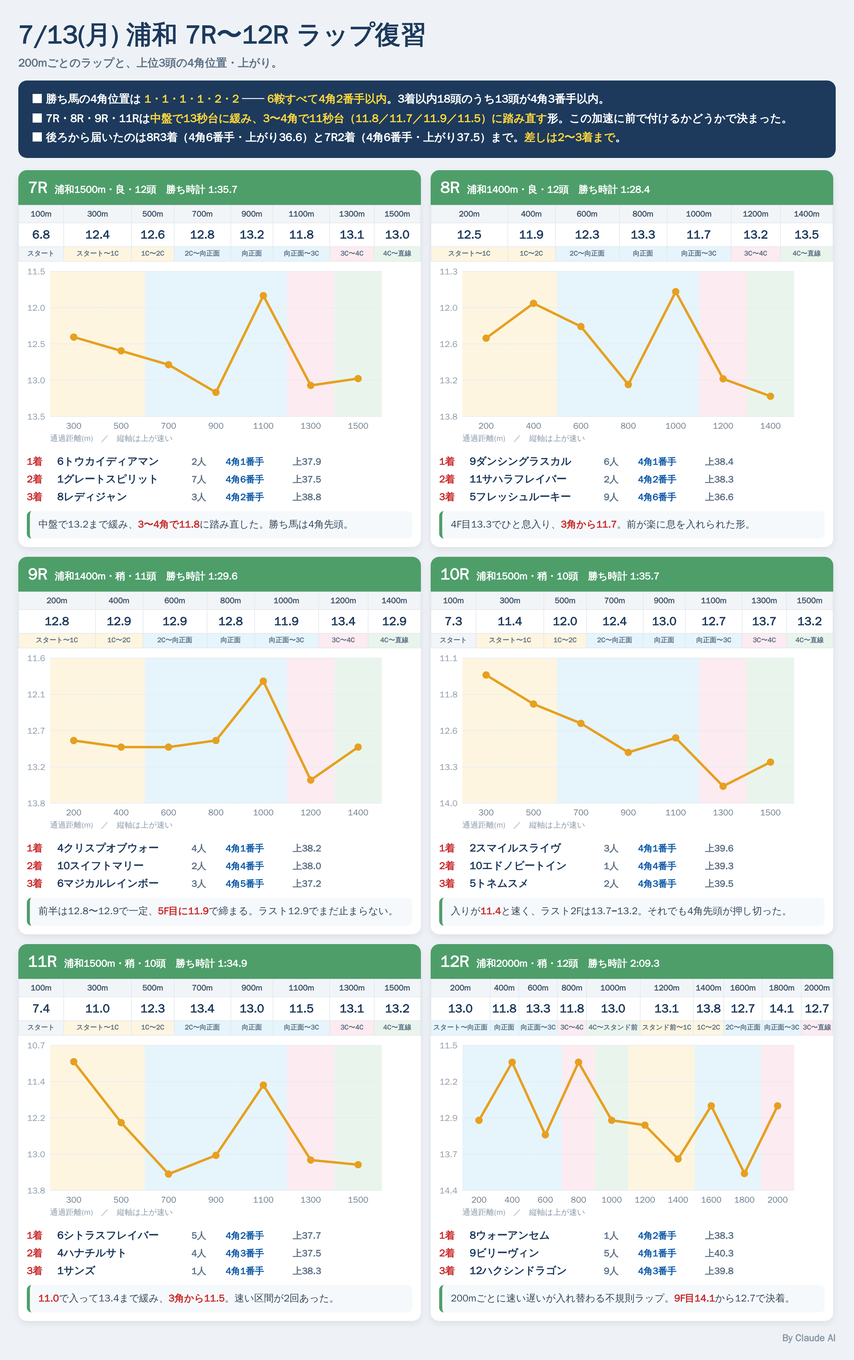
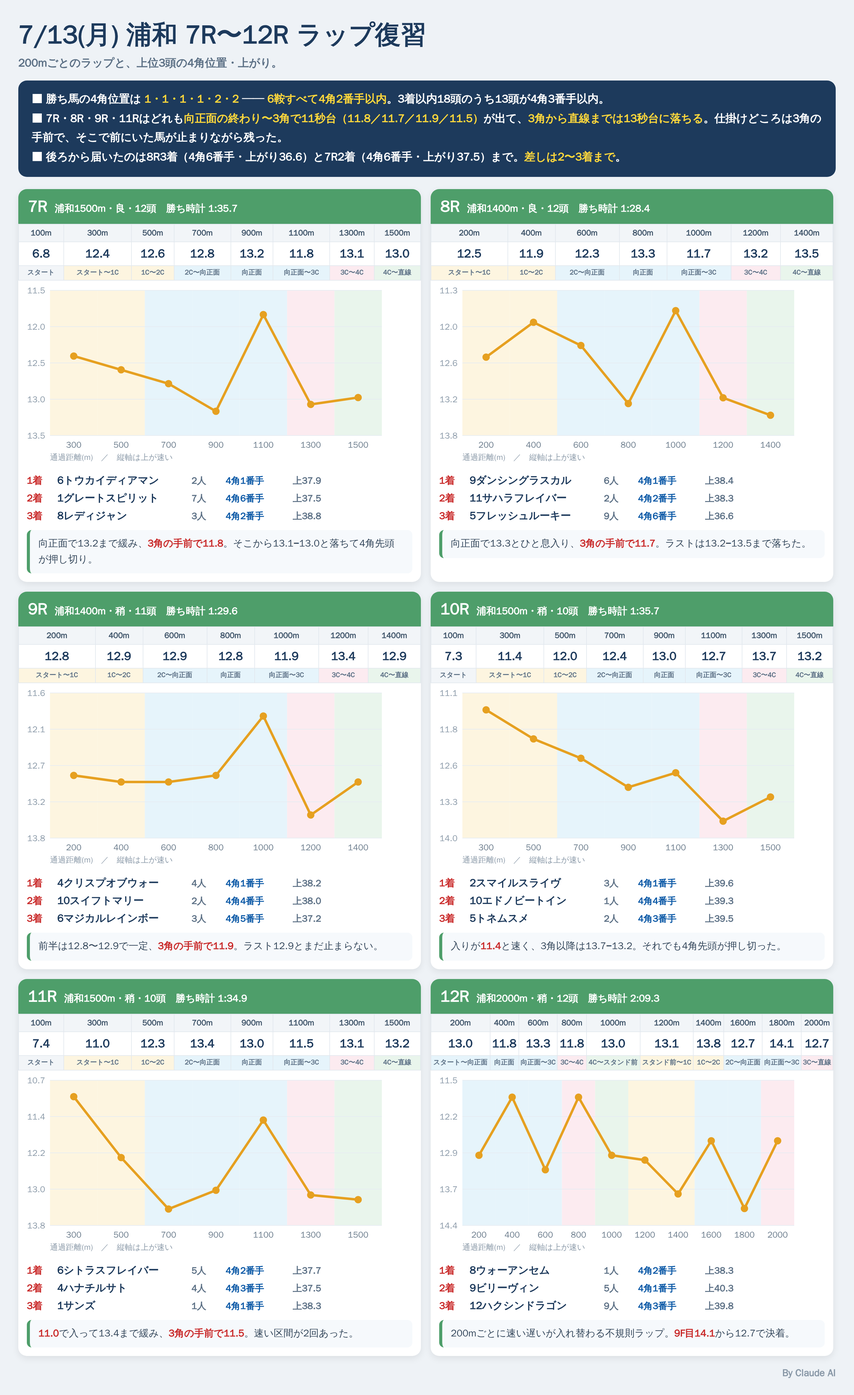
notes: zoomed 7R lap panel; fix the acceleration point to before the 3rd corner
Claude-Session: https://claude.ai/code/session_01RoHscZkr96FNaxQWvUqgEw

diff --git a/notes/live/2026-08-05/urawa_0713_lap.html b/notes/live/2026-08-05/urawa_0713_lap.html
@@ -36,7 +36,7 @@
   <div class="sub2">200mごとのラップと、上位3頭の4角位置・上がり。</div>
   <div class="sum">
     ■ 勝ち馬の4角位置は <b>1・1・1・1・2・2</b> ── <b>6鞍すべて4角2番手以内</b>。3着以内18頭のうち13頭が4角3番手以内。<br>
-    ■ 7R・8R・9R・11Rは<b>中盤で13秒台に緩み、3〜4角で11秒台（11.8／11.7／11.9／11.5）に踏み直す</b>形。この加速に前で付けるかどうかで決まった。<br>
+    ■ 7R・8R・9R・11Rはどれも<b>向正面の終わり〜3角で11秒台（11.8／11.7／11.9／11.5）</b>が出て、<b>3角から直線までは13秒台に落ちる</b>。仕掛けどころは3角の手前で、そこで前にいた馬が止まりながら残った。<br>
     ■ 後ろから届いたのは8R3着（4角6番手・上がり36.6）と7R2着（4角6番手・上がり37.5）まで。<b>差しは2〜3着まで</b>。
   </div>
   <div class="grid">
@@ -45,35 +45,35 @@
     <table class="lt"><tr><th>100m</th><th>300m</th><th>500m</th><th>700m</th><th>900m</th><th>1100m</th><th>1300m</th><th>1500m</th></tr><tr class="v"><td>6.8</td><td>12.4</td><td>12.6</td><td>12.8</td><td>13.2</td><td>11.8</td><td>13.1</td><td>13.0</td></tr><tr><td class="sg" style="background:#f2f5f8">スタート</td><td class="sg" style="background:#fdf5e0">スタート〜1C</td><td class="sg" style="background:#fdf5e0">1C〜2C</td><td class="sg" style="background:#e6f4fb">2C〜向正面</td><td class="sg" style="background:#e6f4fb">向正面</td><td class="sg" style="background:#e6f4fb">向正面〜3C</td><td class="sg" style="background:#fcebf0">3C〜4C</td><td class="sg" style="background:#e9f5ec">4C〜直線</td></tr></table>
     <svg viewBox="0 0 612 300" width="612" height="300"><rect x="52.0" y="16" width="77.7" height="238" fill="#fdf5e0"/><rect x="129.7" y="16" width="77.7" height="238" fill="#fdf5e0"/><rect x="207.4" y="16" width="77.7" height="238" fill="#e6f4fb"/><rect x="285.1" y="16" width="77.7" height="238" fill="#e6f4fb"/><rect x="362.9" y="16" width="77.7" height="238" fill="#e6f4fb"/><rect x="440.6" y="16" width="77.7" height="238" fill="#fcebf0"/><rect x="518.3" y="16" width="77.7" height="238" fill="#e9f5ec"/><line x1="52" y1="16.0" x2="596" y2="16.0" stroke="#e6ecf2"/><text x="44" y="21.0" text-anchor="end" font-size="14" fill="#8a99a8">11.5</text><line x1="52" y1="75.5" x2="596" y2="75.5" stroke="#e6ecf2"/><text x="44" y="80.5" text-anchor="end" font-size="14" fill="#8a99a8">12.0</text><line x1="52" y1="135.0" x2="596" y2="135.0" stroke="#e6ecf2"/><text x="44" y="140.0" text-anchor="end" font-size="14" fill="#8a99a8">12.5</text><line x1="52" y1="194.5" x2="596" y2="194.5" stroke="#e6ecf2"/><text x="44" y="199.5" text-anchor="end" font-size="14" fill="#8a99a8">13.0</text><line x1="52" y1="254.0" x2="596" y2="254.0" stroke="#e6ecf2"/><text x="44" y="259.0" text-anchor="end" font-size="14" fill="#8a99a8">13.5</text><polyline points="90.9,123.7 168.6,146.3 246.3,169.0 324.0,214.3 401.7,55.7 479.4,203.0 557.1,191.7" fill="none" stroke="#e6a020" stroke-width="4" stroke-linejoin="round"/><circle cx="90.9" cy="123.7" r="6" fill="#e6a020"/><text x="90.9" y="274" text-anchor="middle" font-size="14" fill="#6b7c8c">300</text><circle cx="168.6" cy="146.3" r="6" fill="#e6a020"/><text x="168.6" y="274" text-anchor="middle" font-size="14" fill="#6b7c8c">500</text><circle cx="246.3" cy="169.0" r="6" fill="#e6a020"/><text x="246.3" y="274" text-anchor="middle" font-size="14" fill="#6b7c8c">700</text><circle cx="324.0" cy="214.3" r="6" fill="#e6a020"/><text x="324.0" y="274" text-anchor="middle" font-size="14" fill="#6b7c8c">900</text><circle cx="401.7" cy="55.7" r="6" fill="#e6a020"/><text x="401.7" y="274" text-anchor="middle" font-size="14" fill="#6b7c8c">1100</text><circle cx="479.4" cy="203.0" r="6" fill="#e6a020"/><text x="479.4" y="274" text-anchor="middle" font-size="14" fill="#6b7c8c">1300</text><circle cx="557.1" cy="191.7" r="6" fill="#e6a020"/><text x="557.1" y="274" text-anchor="middle" font-size="14" fill="#6b7c8c">1500</text><text x="52" y="294" font-size="13" fill="#8a99a8">通過距離(m)　／　縦軸は上が速い</text></svg>
     <div class="tops"><div class="tp"><span class="f">1着</span><span class="hn">6トウカイディアマン</span><span class="pp">2人</span><span class="cn">4角1番手</span><span class="ag">上37.9</span></div><div class="tp"><span class="f">2着</span><span class="hn">1グレートスピリット</span><span class="pp">7人</span><span class="cn">4角6番手</span><span class="ag">上37.5</span></div><div class="tp"><span class="f">3着</span><span class="hn">8レディジャン</span><span class="pp">3人</span><span class="cn">4角2番手</span><span class="ag">上38.8</span></div></div>
-    <div class="read">中盤で13.2まで緩み、<b>3〜4角で11.8</b>に踏み直した。勝ち馬は4角先頭。</div>
+    <div class="read">向正面で13.2まで緩み、<b>3角の手前で11.8</b>。そこから13.1−13.0と落ちて4角先頭が押し切り。</div>
   </div>
   <div class="blk">
     <div class="bh"><b>8R</b><span>浦和1400m・良・12頭　勝ち時計 1:28.4</span></div>
     <table class="lt"><tr><th>200m</th><th>400m</th><th>600m</th><th>800m</th><th>1000m</th><th>1200m</th><th>1400m</th></tr><tr class="v"><td>12.5</td><td>11.9</td><td>12.3</td><td>13.3</td><td>11.7</td><td>13.2</td><td>13.5</td></tr><tr><td class="sg" style="background:#fdf5e0">スタート〜1C</td><td class="sg" style="background:#fdf5e0">1C〜2C</td><td class="sg" style="background:#e6f4fb">2C〜向正面</td><td class="sg" style="background:#e6f4fb">向正面</td><td class="sg" style="background:#e6f4fb">向正面〜3C</td><td class="sg" style="background:#fcebf0">3C〜4C</td><td class="sg" style="background:#e9f5ec">4C〜直線</td></tr></table>
     <svg viewBox="0 0 612 300" width="612" height="300"><rect x="52.0" y="16" width="77.7" height="238" fill="#fdf5e0"/><rect x="129.7" y="16" width="77.7" height="238" fill="#fdf5e0"/><rect x="207.4" y="16" width="77.7" height="238" fill="#e6f4fb"/><rect x="285.1" y="16" width="77.7" height="238" fill="#e6f4fb"/><rect x="362.9" y="16" width="77.7" height="238" fill="#e6f4fb"/><rect x="440.6" y="16" width="77.7" height="238" fill="#fcebf0"/><rect x="518.3" y="16" width="77.7" height="238" fill="#e9f5ec"/><line x1="52" y1="16.0" x2="596" y2="16.0" stroke="#e6ecf2"/><text x="44" y="21.0" text-anchor="end" font-size="14" fill="#8a99a8">11.3</text><line x1="52" y1="75.5" x2="596" y2="75.5" stroke="#e6ecf2"/><text x="44" y="80.5" text-anchor="end" font-size="14" fill="#8a99a8">12.0</text><line x1="52" y1="135.0" x2="596" y2="135.0" stroke="#e6ecf2"/><text x="44" y="140.0" text-anchor="end" font-size="14" fill="#8a99a8">12.6</text><line x1="52" y1="194.5" x2="596" y2="194.5" stroke="#e6ecf2"/><text x="44" y="199.5" text-anchor="end" font-size="14" fill="#8a99a8">13.2</text><line x1="52" y1="254.0" x2="596" y2="254.0" stroke="#e6ecf2"/><text x="44" y="259.0" text-anchor="end" font-size="14" fill="#8a99a8">13.8</text><polyline points="90.9,125.5 168.6,68.4 246.3,106.4 324.0,201.6 401.7,49.3 479.4,192.1 557.1,220.7" fill="none" stroke="#e6a020" stroke-width="4" stroke-linejoin="round"/><circle cx="90.9" cy="125.5" r="6" fill="#e6a020"/><text x="90.9" y="274" text-anchor="middle" font-size="14" fill="#6b7c8c">200</text><circle cx="168.6" cy="68.4" r="6" fill="#e6a020"/><text x="168.6" y="274" text-anchor="middle" font-size="14" fill="#6b7c8c">400</text><circle cx="246.3" cy="106.4" r="6" fill="#e6a020"/><text x="246.3" y="274" text-anchor="middle" font-size="14" fill="#6b7c8c">600</text><circle cx="324.0" cy="201.6" r="6" fill="#e6a020"/><text x="324.0" y="274" text-anchor="middle" font-size="14" fill="#6b7c8c">800</text><circle cx="401.7" cy="49.3" r="6" fill="#e6a020"/><text x="401.7" y="274" text-anchor="middle" font-size="14" fill="#6b7c8c">1000</text><circle cx="479.4" cy="192.1" r="6" fill="#e6a020"/><text x="479.4" y="274" text-anchor="middle" font-size="14" fill="#6b7c8c">1200</text><circle cx="557.1" cy="220.7" r="6" fill="#e6a020"/><text x="557.1" y="274" text-anchor="middle" font-size="14" fill="#6b7c8c">1400</text><text x="52" y="294" font-size="13" fill="#8a99a8">通過距離(m)　／　縦軸は上が速い</text></svg>
     <div class="tops"><div class="tp"><span class="f">1着</span><span class="hn">9ダンシングラスカル</span><span class="pp">6人</span><span class="cn">4角1番手</span><span class="ag">上38.4</span></div><div class="tp"><span class="f">2着</span><span class="hn">11サハラフレイバー</span><span class="pp">2人</span><span class="cn">4角2番手</span><span class="ag">上38.3</span></div><div class="tp"><span class="f">3着</span><span class="hn">5フレッシュルーキー</span><span class="pp">9人</span><span class="cn">4角6番手</span><span class="ag">上36.6</span></div></div>
-    <div class="read">4F目13.3でひと息入り、<b>3角から11.7</b>。前が楽に息を入れられた形。</div>
+    <div class="read">向正面で13.3とひと息入り、<b>3角の手前で11.7</b>。ラストは13.2−13.5まで落ちた。</div>
   </div>
   <div class="blk">
     <div class="bh"><b>9R</b><span>浦和1400m・稍・11頭　勝ち時計 1:29.6</span></div>
     <table class="lt"><tr><th>200m</th><th>400m</th><th>600m</th><th>800m</th><th>1000m</th><th>1200m</th><th>1400m</th></tr><tr class="v"><td>12.8</td><td>12.9</td><td>12.9</td><td>12.8</td><td>11.9</td><td>13.4</td><td>12.9</td></tr><tr><td class="sg" style="background:#fdf5e0">スタート〜1C</td><td class="sg" style="background:#fdf5e0">1C〜2C</td><td class="sg" style="background:#e6f4fb">2C〜向正面</td><td class="sg" style="background:#e6f4fb">向正面</td><td class="sg" style="background:#e6f4fb">向正面〜3C</td><td class="sg" style="background:#fcebf0">3C〜4C</td><td class="sg" style="background:#e9f5ec">4C〜直線</td></tr></table>
     <svg viewBox="0 0 612 300" width="612" height="300"><rect x="52.0" y="16" width="77.7" height="238" fill="#fdf5e0"/><rect x="129.7" y="16" width="77.7" height="238" fill="#fdf5e0"/><rect x="207.4" y="16" width="77.7" height="238" fill="#e6f4fb"/><rect x="285.1" y="16" width="77.7" height="238" fill="#e6f4fb"/><rect x="362.9" y="16" width="77.7" height="238" fill="#e6f4fb"/><rect x="440.6" y="16" width="77.7" height="238" fill="#fcebf0"/><rect x="518.3" y="16" width="77.7" height="238" fill="#e9f5ec"/><line x1="52" y1="16.0" x2="596" y2="16.0" stroke="#e6ecf2"/><text x="44" y="21.0" text-anchor="end" font-size="14" fill="#8a99a8">11.6</text><line x1="52" y1="75.5" x2="596" y2="75.5" stroke="#e6ecf2"/><text x="44" y="80.5" text-anchor="end" font-size="14" fill="#8a99a8">12.1</text><line x1="52" y1="135.0" x2="596" y2="135.0" stroke="#e6ecf2"/><text x="44" y="140.0" text-anchor="end" font-size="14" fill="#8a99a8">12.7</text><line x1="52" y1="194.5" x2="596" y2="194.5" stroke="#e6ecf2"/><text x="44" y="199.5" text-anchor="end" font-size="14" fill="#8a99a8">13.2</text><line x1="52" y1="254.0" x2="596" y2="254.0" stroke="#e6ecf2"/><text x="44" y="259.0" text-anchor="end" font-size="14" fill="#8a99a8">13.8</text><polyline points="90.9,151.2 168.6,162.0 246.3,162.0 324.0,151.2 401.7,53.9 479.4,216.1 557.1,162.0" fill="none" stroke="#e6a020" stroke-width="4" stroke-linejoin="round"/><circle cx="90.9" cy="151.2" r="6" fill="#e6a020"/><text x="90.9" y="274" text-anchor="middle" font-size="14" fill="#6b7c8c">200</text><circle cx="168.6" cy="162.0" r="6" fill="#e6a020"/><text x="168.6" y="274" text-anchor="middle" font-size="14" fill="#6b7c8c">400</text><circle cx="246.3" cy="162.0" r="6" fill="#e6a020"/><text x="246.3" y="274" text-anchor="middle" font-size="14" fill="#6b7c8c">600</text><circle cx="324.0" cy="151.2" r="6" fill="#e6a020"/><text x="324.0" y="274" text-anchor="middle" font-size="14" fill="#6b7c8c">800</text><circle cx="401.7" cy="53.9" r="6" fill="#e6a020"/><text x="401.7" y="274" text-anchor="middle" font-size="14" fill="#6b7c8c">1000</text><circle cx="479.4" cy="216.1" r="6" fill="#e6a020"/><text x="479.4" y="274" text-anchor="middle" font-size="14" fill="#6b7c8c">1200</text><circle cx="557.1" cy="162.0" r="6" fill="#e6a020"/><text x="557.1" y="274" text-anchor="middle" font-size="14" fill="#6b7c8c">1400</text><text x="52" y="294" font-size="13" fill="#8a99a8">通過距離(m)　／　縦軸は上が速い</text></svg>
     <div class="tops"><div class="tp"><span class="f">1着</span><span class="hn">4クリスプオブウォー</span><span class="pp">4人</span><span class="cn">4角1番手</span><span class="ag">上38.2</span></div><div class="tp"><span class="f">2着</span><span class="hn">10スイフトマリー</span><span class="pp">2人</span><span class="cn">4角4番手</span><span class="ag">上38.0</span></div><div class="tp"><span class="f">3着</span><span class="hn">6マジカルレインボー</span><span class="pp">3人</span><span class="cn">4角5番手</span><span class="ag">上37.2</span></div></div>
-    <div class="read">前半は12.8〜12.9で一定、<b>5F目に11.9</b>で締まる。ラスト12.9でまだ止まらない。</div>
+    <div class="read">前半は12.8〜12.9で一定、<b>3角の手前で11.9</b>。ラスト12.9とまだ止まらない。</div>
   </div>
   <div class="blk">
     <div class="bh"><b>10R</b><span>浦和1500m・稍・10頭　勝ち時計 1:35.7</span></div>
     <table class="lt"><tr><th>100m</th><th>300m</th><th>500m</th><th>700m</th><th>900m</th><th>1100m</th><th>1300m</th><th>1500m</th></tr><tr class="v"><td>7.3</td><td>11.4</td><td>12.0</td><td>12.4</td><td>13.0</td><td>12.7</td><td>13.7</td><td>13.2</td></tr><tr><td class="sg" style="background:#f2f5f8">スタート</td><td class="sg" style="background:#fdf5e0">スタート〜1C</td><td class="sg" style="background:#fdf5e0">1C〜2C</td><td class="sg" style="background:#e6f4fb">2C〜向正面</td><td class="sg" style="background:#e6f4fb">向正面</td><td class="sg" style="background:#e6f4fb">向正面〜3C</td><td class="sg" style="background:#fcebf0">3C〜4C</td><td class="sg" style="background:#e9f5ec">4C〜直線</td></tr></table>
     <svg viewBox="0 0 612 300" width="612" height="300"><rect x="52.0" y="16" width="77.7" height="238" fill="#fdf5e0"/><rect x="129.7" y="16" width="77.7" height="238" fill="#fdf5e0"/><rect x="207.4" y="16" width="77.7" height="238" fill="#e6f4fb"/><rect x="285.1" y="16" width="77.7" height="238" fill="#e6f4fb"/><rect x="362.9" y="16" width="77.7" height="238" fill="#e6f4fb"/><rect x="440.6" y="16" width="77.7" height="238" fill="#fcebf0"/><rect x="518.3" y="16" width="77.7" height="238" fill="#e9f5ec"/><line x1="52" y1="16.0" x2="596" y2="16.0" stroke="#e6ecf2"/><text x="44" y="21.0" text-anchor="end" font-size="14" fill="#8a99a8">11.1</text><line x1="52" y1="75.5" x2="596" y2="75.5" stroke="#e6ecf2"/><text x="44" y="80.5" text-anchor="end" font-size="14" fill="#8a99a8">11.8</text><line x1="52" y1="135.0" x2="596" y2="135.0" stroke="#e6ecf2"/><text x="44" y="140.0" text-anchor="end" font-size="14" fill="#8a99a8">12.6</text><line x1="52" y1="194.5" x2="596" y2="194.5" stroke="#e6ecf2"/><text x="44" y="199.5" text-anchor="end" font-size="14" fill="#8a99a8">13.3</text><line x1="52" y1="254.0" x2="596" y2="254.0" stroke="#e6ecf2"/><text x="44" y="259.0" text-anchor="end" font-size="14" fill="#8a99a8">14.0</text><polyline points="90.9,43.8 168.6,91.4 246.3,123.1 324.0,170.7 401.7,146.9 479.4,226.2 557.1,186.6" fill="none" stroke="#e6a020" stroke-width="4" stroke-linejoin="round"/><circle cx="90.9" cy="43.8" r="6" fill="#e6a020"/><text x="90.9" y="274" text-anchor="middle" font-size="14" fill="#6b7c8c">300</text><circle cx="168.6" cy="91.4" r="6" fill="#e6a020"/><text x="168.6" y="274" text-anchor="middle" font-size="14" fill="#6b7c8c">500</text><circle cx="246.3" cy="123.1" r="6" fill="#e6a020"/><text x="246.3" y="274" text-anchor="middle" font-size="14" fill="#6b7c8c">700</text><circle cx="324.0" cy="170.7" r="6" fill="#e6a020"/><text x="324.0" y="274" text-anchor="middle" font-size="14" fill="#6b7c8c">900</text><circle cx="401.7" cy="146.9" r="6" fill="#e6a020"/><text x="401.7" y="274" text-anchor="middle" font-size="14" fill="#6b7c8c">1100</text><circle cx="479.4" cy="226.2" r="6" fill="#e6a020"/><text x="479.4" y="274" text-anchor="middle" font-size="14" fill="#6b7c8c">1300</text><circle cx="557.1" cy="186.6" r="6" fill="#e6a020"/><text x="557.1" y="274" text-anchor="middle" font-size="14" fill="#6b7c8c">1500</text><text x="52" y="294" font-size="13" fill="#8a99a8">通過距離(m)　／　縦軸は上が速い</text></svg>
     <div class="tops"><div class="tp"><span class="f">1着</span><span class="hn">2スマイルスライヴ</span><span class="pp">3人</span><span class="cn">4角1番手</span><span class="ag">上39.6</span></div><div class="tp"><span class="f">2着</span><span class="hn">10エドノビートイン</span><span class="pp">1人</span><span class="cn">4角4番手</span><span class="ag">上39.3</span></div><div class="tp"><span class="f">3着</span><span class="hn">5トネムスメ</span><span class="pp">2人</span><span class="cn">4角3番手</span><span class="ag">上39.5</span></div></div>
-    <div class="read">入りが<b>11.4</b>と速く、ラスト2Fは13.7−13.2。それでも4角先頭が押し切った。</div>
+    <div class="read">入りが<b>11.4</b>と速く、3角以降は13.7−13.2。それでも4角先頭が押し切った。</div>
   </div>
   <div class="blk">
     <div class="bh"><b>11R</b><span>浦和1500m・稍・10頭　勝ち時計 1:34.9</span></div>
     <table class="lt"><tr><th>100m</th><th>300m</th><th>500m</th><th>700m</th><th>900m</th><th>1100m</th><th>1300m</th><th>1500m</th></tr><tr class="v"><td>7.4</td><td>11.0</td><td>12.3</td><td>13.4</td><td>13.0</td><td>11.5</td><td>13.1</td><td>13.2</td></tr><tr><td class="sg" style="background:#f2f5f8">スタート</td><td class="sg" style="background:#fdf5e0">スタート〜1C</td><td class="sg" style="background:#fdf5e0">1C〜2C</td><td class="sg" style="background:#e6f4fb">2C〜向正面</td><td class="sg" style="background:#e6f4fb">向正面</td><td class="sg" style="background:#e6f4fb">向正面〜3C</td><td class="sg" style="background:#fcebf0">3C〜4C</td><td class="sg" style="background:#e9f5ec">4C〜直線</td></tr></table>
     <svg viewBox="0 0 612 300" width="612" height="300"><rect x="52.0" y="16" width="77.7" height="238" fill="#fdf5e0"/><rect x="129.7" y="16" width="77.7" height="238" fill="#fdf5e0"/><rect x="207.4" y="16" width="77.7" height="238" fill="#e6f4fb"/><rect x="285.1" y="16" width="77.7" height="238" fill="#e6f4fb"/><rect x="362.9" y="16" width="77.7" height="238" fill="#e6f4fb"/><rect x="440.6" y="16" width="77.7" height="238" fill="#fcebf0"/><rect x="518.3" y="16" width="77.7" height="238" fill="#e9f5ec"/><line x1="52" y1="16.0" x2="596" y2="16.0" stroke="#e6ecf2"/><text x="44" y="21.0" text-anchor="end" font-size="14" fill="#8a99a8">10.7</text><line x1="52" y1="75.5" x2="596" y2="75.5" stroke="#e6ecf2"/><text x="44" y="80.5" text-anchor="end" font-size="14" fill="#8a99a8">11.4</text><line x1="52" y1="135.0" x2="596" y2="135.0" stroke="#e6ecf2"/><text x="44" y="140.0" text-anchor="end" font-size="14" fill="#8a99a8">12.2</text><line x1="52" y1="194.5" x2="596" y2="194.5" stroke="#e6ecf2"/><text x="44" y="199.5" text-anchor="end" font-size="14" fill="#8a99a8">13.0</text><line x1="52" y1="254.0" x2="596" y2="254.0" stroke="#e6ecf2"/><text x="44" y="259.0" text-anchor="end" font-size="14" fill="#8a99a8">13.8</text><polyline points="90.9,42.9 168.6,142.7 246.3,227.1 324.0,196.4 401.7,81.3 479.4,204.1 557.1,211.8" fill="none" stroke="#e6a020" stroke-width="4" stroke-linejoin="round"/><circle cx="90.9" cy="42.9" r="6" fill="#e6a020"/><text x="90.9" y="274" text-anchor="middle" font-size="14" fill="#6b7c8c">300</text><circle cx="168.6" cy="142.7" r="6" fill="#e6a020"/><text x="168.6" y="274" text-anchor="middle" font-size="14" fill="#6b7c8c">500</text><circle cx="246.3" cy="227.1" r="6" fill="#e6a020"/><text x="246.3" y="274" text-anchor="middle" font-size="14" fill="#6b7c8c">700</text><circle cx="324.0" cy="196.4" r="6" fill="#e6a020"/><text x="324.0" y="274" text-anchor="middle" font-size="14" fill="#6b7c8c">900</text><circle cx="401.7" cy="81.3" r="6" fill="#e6a020"/><text x="401.7" y="274" text-anchor="middle" font-size="14" fill="#6b7c8c">1100</text><circle cx="479.4" cy="204.1" r="6" fill="#e6a020"/><text x="479.4" y="274" text-anchor="middle" font-size="14" fill="#6b7c8c">1300</text><circle cx="557.1" cy="211.8" r="6" fill="#e6a020"/><text x="557.1" y="274" text-anchor="middle" font-size="14" fill="#6b7c8c">1500</text><text x="52" y="294" font-size="13" fill="#8a99a8">通過距離(m)　／　縦軸は上が速い</text></svg>
     <div class="tops"><div class="tp"><span class="f">1着</span><span class="hn">6シトラスフレイバー</span><span class="pp">5人</span><span class="cn">4角2番手</span><span class="ag">上37.7</span></div><div class="tp"><span class="f">2着</span><span class="hn">4ハナチルサト</span><span class="pp">4人</span><span class="cn">4角3番手</span><span class="ag">上37.5</span></div><div class="tp"><span class="f">3着</span><span class="hn">1サンズ</span><span class="pp">1人</span><span class="cn">4角1番手</span><span class="ag">上38.3</span></div></div>
-    <div class="read"><b>11.0</b>で入って13.4まで緩み、<b>3角から11.5</b>。速い区間が2回あった。</div>
+    <div class="read"><b>11.0</b>で入って13.4まで緩み、<b>3角の手前で11.5</b>。速い区間が2回あった。</div>
   </div>
   <div class="blk">
     <div class="bh"><b>12R</b><span>浦和2000m・稍・12頭　勝ち時計 2:09.3</span></div>

diff --git a/notes/live/2026-08-05/urawa_0713_7R.html b/notes/live/2026-08-05/urawa_0713_7R.html
@@ -1,0 +1,38 @@
+<!doctype html><html><head><meta charset="utf-8"><style>
+  * { margin:0; padding:0; box-sizing:border-box; font-family:'WenQuanYi Zen Hei',sans-serif; }
+  body { background:#eef2f6; }
+  .card { width:1400px; background:#eef2f6; padding:28px 30px 24px; }
+  .box { background:#fff; border-radius:16px; overflow:hidden; box-shadow:0 5px 16px rgba(0,0,0,.09); }
+  .bh { background:#4e9e6a; color:#fff; padding:16px 24px; display:flex; align-items:baseline; gap:16px; }
+  .bh b { font-size:40px; font-weight:900; }
+  .bh span { font-size:22px; font-weight:800; }
+  table { width:100%; border-collapse:collapse; }
+  th { background:#f2f5f8; color:#41566b; font-size:18px; font-weight:800; padding:9px 2px; border:1px solid #e2e8ee; }
+  td { text-align:center; font-size:30px; font-weight:900; color:#1d3a5c; padding:11px 2px; border:1px solid #e2e8ee; }
+  td.sg { font-size:15px; font-weight:800; color:#5d7186; padding:7px 2px; }
+  .tops { padding:12px 26px 4px; }
+  .tp { display:flex; align-items:baseline; gap:14px; padding:6px 0; }
+  .tp .f { color:#c92a2a; font-size:24px; font-weight:900; flex:0 0 60px; }
+  .tp .hn { color:#1d3a5c; font-size:26px; font-weight:900; flex:0 0 330px; }
+  .tp .pp { color:#5d7186; font-size:20px; font-weight:800; flex:0 0 90px; }
+  .tp .tm { color:#5d7186; font-size:20px; font-weight:800; flex:0 0 110px; }
+  .tp .cn { color:#0a58a6; font-size:22px; font-weight:900; flex:0 0 150px; }
+  .tp .ag { color:#5d7186; font-size:20px; font-weight:800; }
+  .read { margin:10px 26px 22px; background:#f6f9fc; border-left:7px solid #4e9e6a; border-radius:10px;
+          padding:15px 20px; color:#33465a; font-size:22px; font-weight:700; line-height:1.7; }
+  .read b { color:#c92a2a; }
+  .sig { text-align:right; color:#8a99a8; font-size:16px; font-weight:800; margin-top:14px; }
+</style></head><body>
+<div class="card">
+  <div class="box">
+    <div class="bh"><b>7R</b><span>7/13(月) 浦和1500m・良・12頭　勝ち時計 1:35.7</span></div>
+    <table><tr><th>100m</th><th>300m</th><th>500m</th><th>700m</th><th>900m</th><th>1100m</th><th>1300m</th><th>1500m</th></tr><tr><td>6.8</td><td>12.4</td><td>12.6</td><td>12.8</td><td>13.2</td><td>11.8</td><td>13.1</td><td>13.0</td></tr><tr><td class="sg" style="background:#f2f5f8">スタート</td><td class="sg" style="background:#fdf5e0">スタート〜1C</td><td class="sg" style="background:#fdf5e0">1C〜2C</td><td class="sg" style="background:#e6f4fb">2C〜向正面</td><td class="sg" style="background:#e6f4fb">向正面</td><td class="sg" style="background:#e6f4fb">向正面〜3C</td><td class="sg" style="background:#fcebf0">3C〜4C</td><td class="sg" style="background:#e9f5ec">4C〜直線</td></tr></table>
+    <svg viewBox="0 0 1320 520" width="1320" height="520"><rect x="74.0" y="20" width="175.1" height="442" fill="#fdf5e0"/><rect x="249.1" y="20" width="175.1" height="442" fill="#fdf5e0"/><rect x="424.3" y="20" width="175.1" height="442" fill="#e6f4fb"/><rect x="599.4" y="20" width="175.1" height="442" fill="#e6f4fb"/><rect x="774.6" y="20" width="175.1" height="442" fill="#e6f4fb"/><rect x="949.7" y="20" width="175.1" height="442" fill="#fcebf0"/><rect x="1124.9" y="20" width="175.1" height="442" fill="#e9f5ec"/><line x1="74" y1="20.0" x2="1300" y2="20.0" stroke="#e2e9f0"/><text x="64" y="27.0" text-anchor="end" font-size="19" fill="#8a99a8">11.5</text><line x1="74" y1="130.5" x2="1300" y2="130.5" stroke="#e2e9f0"/><text x="64" y="137.5" text-anchor="end" font-size="19" fill="#8a99a8">12.0</text><line x1="74" y1="241.0" x2="1300" y2="241.0" stroke="#e2e9f0"/><text x="64" y="248.0" text-anchor="end" font-size="19" fill="#8a99a8">12.5</text><line x1="74" y1="351.5" x2="1300" y2="351.5" stroke="#e2e9f0"/><text x="64" y="358.5" text-anchor="end" font-size="19" fill="#8a99a8">13.0</text><line x1="74" y1="462.0" x2="1300" y2="462.0" stroke="#e2e9f0"/><text x="64" y="469.0" text-anchor="end" font-size="19" fill="#8a99a8">13.5</text><polyline points="161.6,220.0 336.7,262.0 511.9,304.1 687.0,388.3 862.1,93.7 1037.3,367.3 1212.4,346.2" fill="none" stroke="#e6a020" stroke-width="6" stroke-linejoin="round"/><circle cx="161.6" cy="220.0" r="9" fill="#e6a020"/><text x="161.6" y="196.0" text-anchor="middle" font-size="21" font-weight="900" fill="#8a6a20">12.4</text><text x="161.6" y="490" text-anchor="middle" font-size="19" fill="#6b7c8c">300m</text><circle cx="336.7" cy="262.0" r="9" fill="#e6a020"/><text x="336.7" y="238.0" text-anchor="middle" font-size="21" font-weight="900" fill="#8a6a20">12.6</text><text x="336.7" y="490" text-anchor="middle" font-size="19" fill="#6b7c8c">500m</text><circle cx="511.9" cy="304.1" r="9" fill="#e6a020"/><text x="511.9" y="280.1" text-anchor="middle" font-size="21" font-weight="900" fill="#8a6a20">12.8</text><text x="511.9" y="490" text-anchor="middle" font-size="19" fill="#6b7c8c">700m</text><circle cx="687.0" cy="388.3" r="9" fill="#e6a020"/><text x="687.0" y="364.3" text-anchor="middle" font-size="21" font-weight="900" fill="#8a6a20">13.2</text><text x="687.0" y="490" text-anchor="middle" font-size="19" fill="#6b7c8c">900m</text><circle cx="862.1" cy="93.7" r="13" fill="#c92a2a"/><text x="862.1" y="69.7" text-anchor="middle" font-size="26" font-weight="900" fill="#c92a2a">11.8</text><text x="862.1" y="490" text-anchor="middle" font-size="19" fill="#6b7c8c">1100m</text><circle cx="1037.3" cy="367.3" r="9" fill="#e6a020"/><text x="1037.3" y="343.3" text-anchor="middle" font-size="21" font-weight="900" fill="#8a6a20">13.1</text><text x="1037.3" y="490" text-anchor="middle" font-size="19" fill="#6b7c8c">1300m</text><circle cx="1212.4" cy="346.2" r="9" fill="#e6a020"/><text x="1212.4" y="322.2" text-anchor="middle" font-size="21" font-weight="900" fill="#8a6a20">13.0</text><text x="1212.4" y="490" text-anchor="middle" font-size="19" fill="#6b7c8c">1500m</text><text x="74" y="512" font-size="17" fill="#8a99a8">通過距離　／　縦軸は上が速い</text></svg>
+    <div class="tops"><div class="tp"><span class="f">1着</span><span class="hn">6トウカイディアマン</span><span class="pp">2人気</span><span class="tm">1:35.7</span><span class="cn">4角1番手</span><span class="ag">上がり37.9</span></div><div class="tp"><span class="f">2着</span><span class="hn">1グレートスピリット</span><span class="pp">7人気</span><span class="tm">1:36.4</span><span class="cn">4角6番手</span><span class="ag">上がり37.5</span></div><div class="tp"><span class="f">3着</span><span class="hn">8レディジャン</span><span class="pp">3人気</span><span class="tm">1:36.7</span><span class="cn">4角2番手</span><span class="ag">上がり38.8</span></div></div>
+    <div class="read">向正面で<b>13.2</b>まで緩み、<b>3角の手前で11.8</b>に踏み直した。仕掛けどころは3角の前。
+    そこから直線までは13.1−13.0と落ちており、<b>前にいた馬が止まりながら残る</b>形。
+    4角6番手から上がり37.5を使った2着馬でも0.7秒届いていない。</div>
+  </div>
+  <div class="sig">By Claude AI</div>
+</div>
+</body></html>
